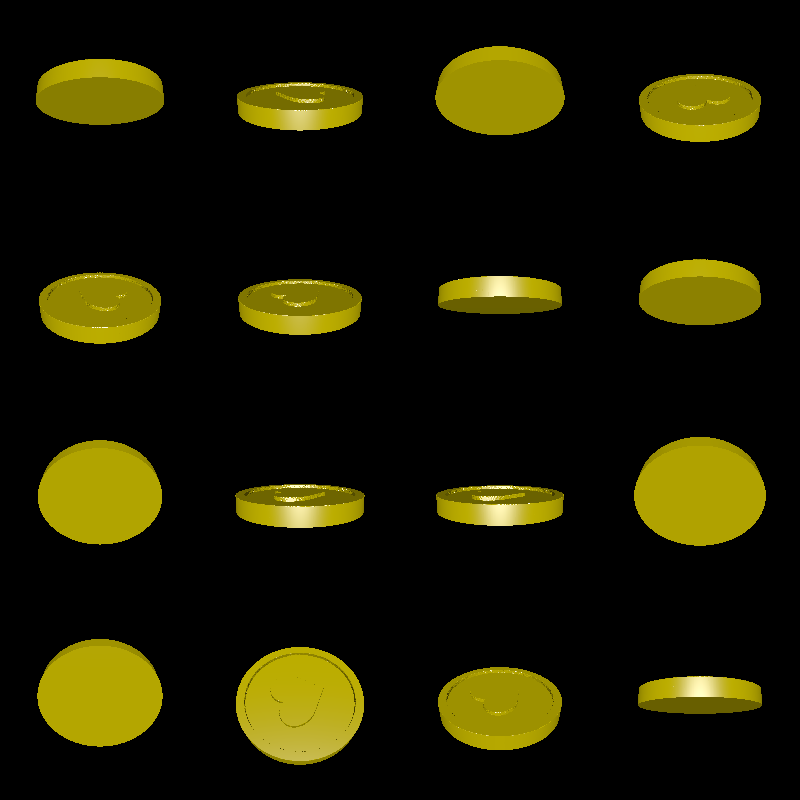
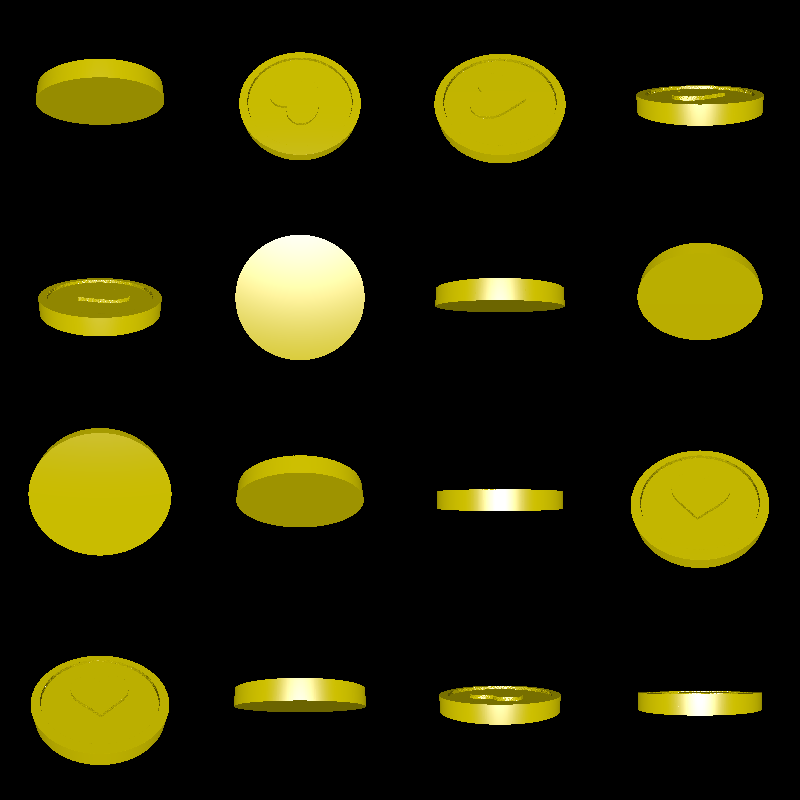
fix squeeze for coin

diff --git a/examples/romantic/coin/main.go b/examples/romantic/coin/main.go
@@ -50,10 +50,12 @@ func main() {
 	squeeze := &toolbox3d.SmartSqueeze{
 		Axis:         toolbox3d.AxisZ,
 		PinchRange:   epsilon * 2,
-		PinchPower:   4.0,
+		PinchPower:   0.25,
 		SqueezeRatio: 0.1,
 	}
 	squeeze.AddPinch(0)
+	squeeze.AddPinch(minHeight)
+	squeeze.AddPinch(maxHeight)
 	squeeze.AddUnsqueezable(minHeight, maxHeight)
 	m := squeeze.MarchingCubesSearch(solid, epsilon, 8)
 	m = m.EliminateCoplanar(1e-5)
